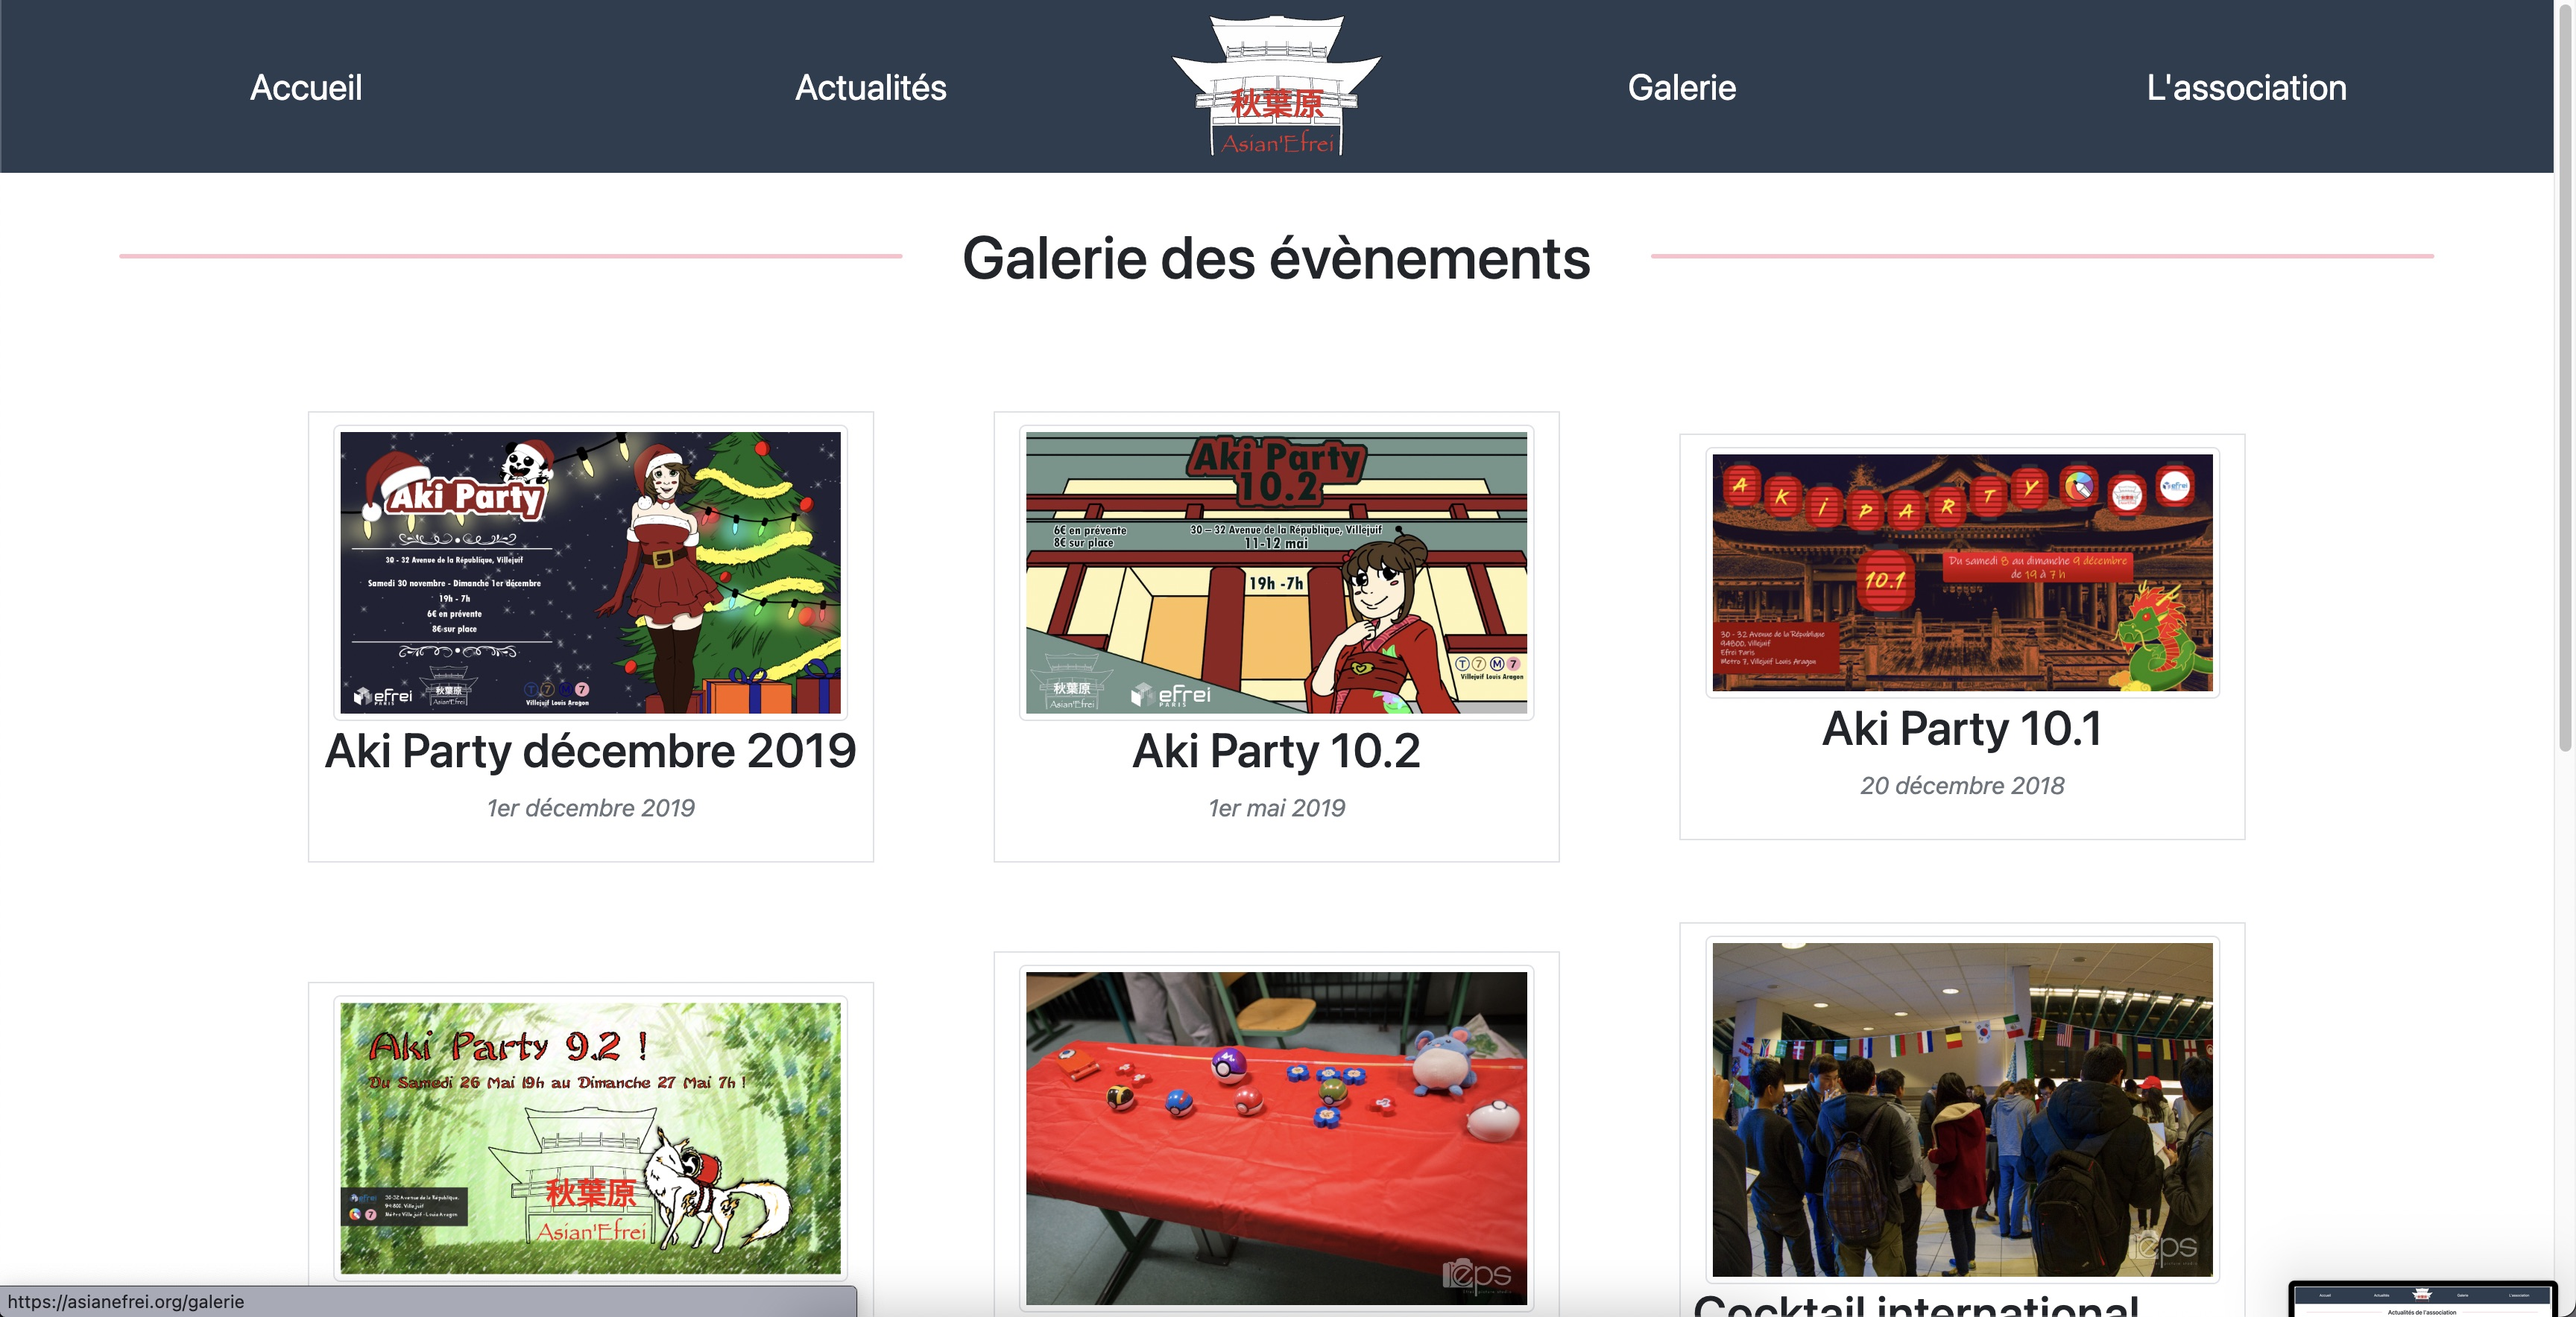
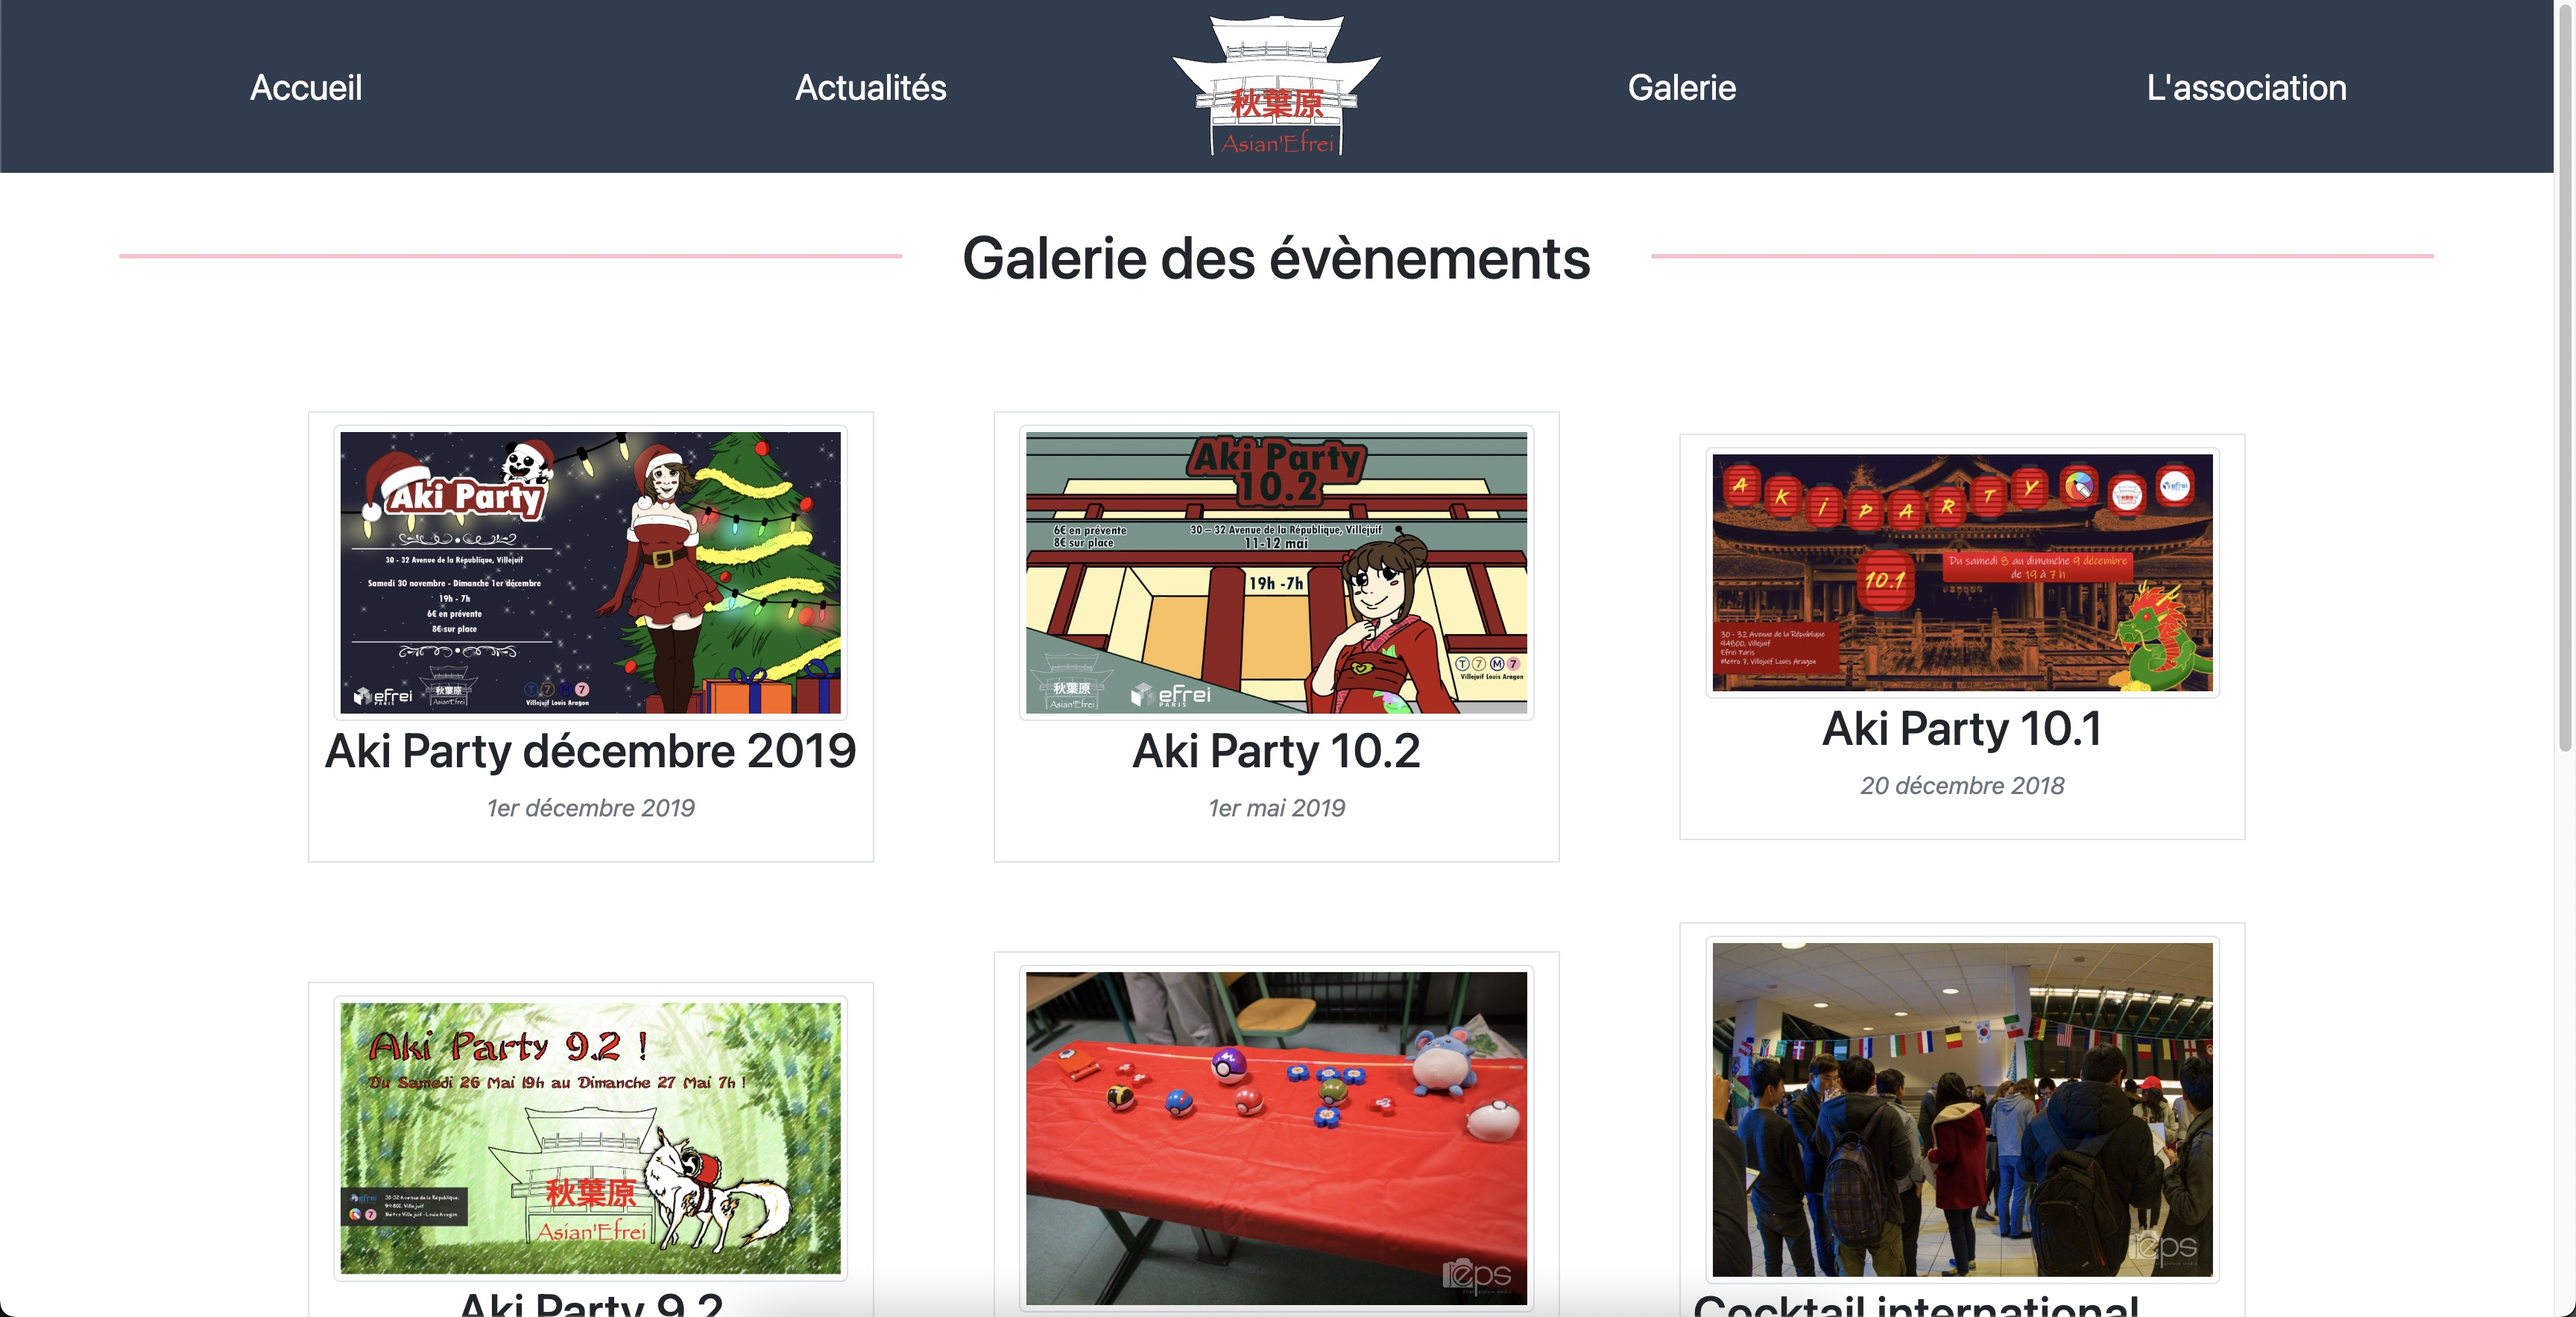
Asian Efrei project gallery

Changed region(s): [[0.0, 0.9644, 0.3438, 1.0], [0.875, 0.9644, 1.0, 1.0]]

diff --git a/src/app/components/pages/projects-page/asian-gallery/asian-gallery.component.ts b/src/app/components/pages/projects-page/asian-gallery/asian-gallery.component.ts
@@ -1,15 +1,46 @@
-import { Component, OnInit } from '@angular/core';
+import { Component } from '@angular/core';
+import {GalleryContent} from "../../../../interfaces/gallery-content";
 
 @Component({
   selector: 'app-asian-gallery',
   templateUrl: './asian-gallery.component.html',
   styleUrls: ['./asian-gallery.component.css']
 })
-export class AsianGalleryComponent implements OnInit {
+export class AsianGalleryComponent {
+
+  gallery: GalleryContent = {
+    title_fr: "Images du site de l'Asian'Efrei",
+    title_en: "Asian'Efrei's website gallery",
+    gallery : [
+      {
+        imagesURLs: ["assets/images/projects/gallery/asian.jpeg"],
+        description_fr: "La page d'accueil du site",
+        description_en: "The website's landing page"
+      },
+      {
+        imagesURLs: ["assets/images/projects/gallery/asian2.jpeg"],
+        description_fr: "Le site possède une page où l'association peut poster des articles",
+        description_en: "The website has a page where the club can post articles"
+      },
+      {
+        imagesURLs: ["assets/images/projects/gallery/asian4.jpeg", "assets/images/projects/gallery/asian5.jpeg"],
+        description_fr: "Un exemple d'article. Le titre de la page est mit à jour automatiquement et indexé par les moteurs de recherche grâce au SSR",
+        description_en: "An article example. The page title is automatically updated and indexed by search engines because of SSR"
+      },
+      {
+        imagesURLs: ["assets/images/projects/gallery/asian3.jpeg"],
+        description_fr: "Le site propose aussi une galerie pour les photos des évènements",
+        description_en: "The website also has a gallery to display pictures of events"
+      },
+      {
+        imagesURLs: ["assets/images/projects/gallery/asian6.jpeg"],
+        description_fr: "Un exemple de galerie",
+        description_en: "A gallery example"
+      }
+    ]
+  }
+
 
   constructor() { }
-
-  ngOnInit(): void {
-  }
 
 }

diff --git a/src/app/components/common/gallery/gallery.component.html b/src/app/components/common/gallery/gallery.component.html
@@ -2,7 +2,7 @@
   <h1 class="text-4xl font-extrabold text-gradient gradient-orange my-5 py-2">{{getTitle(content)}}</h1>
   <div *ngFor="let entry of content.gallery" class="flex flex-col justify-center items-center mb-10">
     <div class="w-1/2 flex justify-around items-center">
-      <img *ngFor="let url of entry.imagesURLs" [src]="url" [alt]="getDescription(entry)" class="object-contain rounded thick-shadow">
+      <img *ngFor="let url of entry.imagesURLs" [src]="url" [alt]="getDescription(entry)" class="object-contain rounded thick-shadow mx-1">
     </div>
     <p class="text-gray-700 italic mt-2">{{getDescription(entry)}}</p>
   </div>

diff --git a/src/app/components/pages/projects-page/asian-gallery/asian-gallery.component.html b/src/app/components/pages/projects-page/asian-gallery/asian-gallery.component.html
@@ -1,1 +1,1 @@
-<p>asian-gallery works!</p>
+<app-gallery [content]="gallery"></app-gallery>
